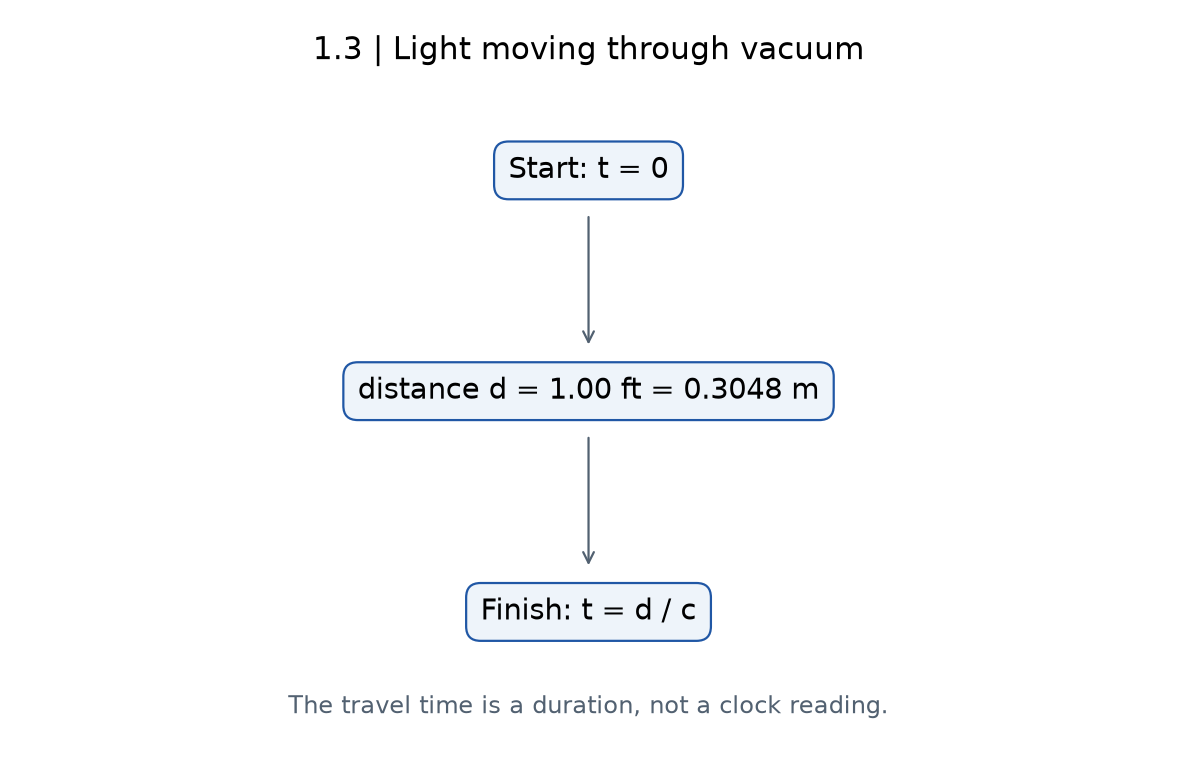
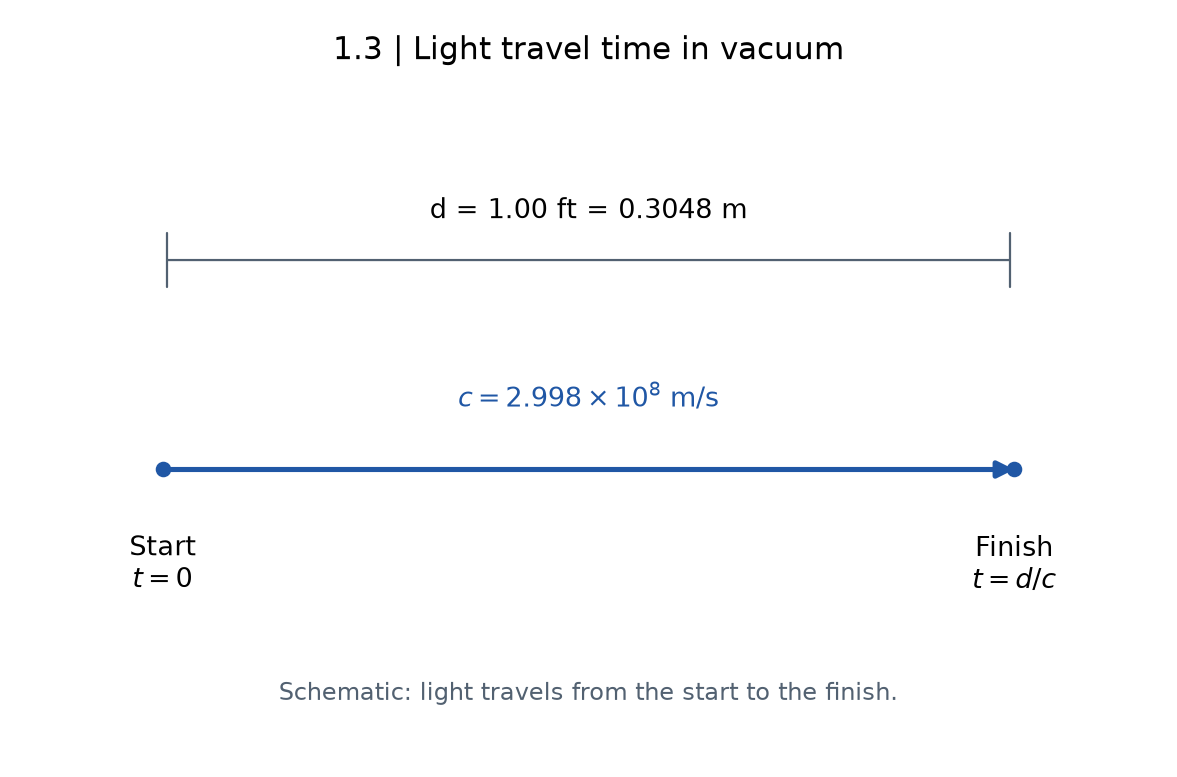
Refine and individually audit Week 01 solution drawings

diff --git a/fall/phy101/w1/index.html b/fall/phy101/w1/index.html
@@ -1149,6 +1149,7 @@ F&=\sqrt{(-12.0)^2+(14.8)^2}\ \mathrm N \\ &=19.1\ \mathrm N \\ s&=\sqrt{(4.00)^
 <p><strong>Source:</strong> Young & Freedman, <em>University Physics</em>, 15th ed., Chapter 1, Exercise 1.1. Givens retained; question restated and solution written for this course. Try on paper before revealing the route.</p>
 <details class="wex-more"><summary>Show the worked route <span lang="tr">/ Çözüm yolunu göster</span></summary><p><strong>Solution.</strong></p>
 <img src="../assets/week01-solutions/exercise-1-01.png" alt="Labelled solution drawing for Young and Freedman Exercise 1.1" width="100%">
+<p><a href="https://arifsolmaz.github.io/courses/fall/phy101/assets/week01-solutions/exercise-1-01.png">Open drawing at full size</a></p>
 <p><em>Drawing for the solution. Vector plots use equal coordinate scales; schematic models are identified in the drawing.</em></p>
 <p><strong>1. Read the drawing and predict.</strong> Draw a conversion chain: miles → feet → inches → centimetres → kilometres. A mile is longer than a kilometre, so (a) must exceed 1.</p>
 <p><strong>2–3. Choose the relation and rearrange symbolically.</strong> Multiply the length by ratios equal to one. Symbolically, $L_{\rm target}=L_{\rm source}\,k$, where $k$ is the product of the conversion ratios.</p>
@@ -1182,6 +1183,7 @@ L&=(1.00\times10^5\ \mathrm{cm})\frac{1\ \mathrm{ft}}{30.48\ \mathrm{cm}}\\
 <p><strong>Source:</strong> Young & Freedman, <em>University Physics</em>, 15th ed., Chapter 1, Exercise 1.2. Givens retained; question restated and solution written for this course. Try on paper before revealing the route.</p>
 <details class="wex-more"><summary>Show the worked route <span lang="tr">/ Çözüm yolunu göster</span></summary><p><strong>Solution.</strong></p>
 <img src="../assets/week01-solutions/exercise-1-02.png" alt="Labelled solution drawing for Young and Freedman Exercise 1.2" width="100%">
+<p><a href="https://arifsolmaz.github.io/courses/fall/phy101/assets/week01-solutions/exercise-1-02.png">Open drawing at full size</a></p>
 <p><em>Drawing for the solution. Vector plots use equal coordinate scales; schematic models are identified in the drawing.</em></p>
 <p><strong>1. Read the drawing and predict.</strong> Sketch a cube one inch on each edge: each of its three edges needs conversion. One cubic inch contains more than one cubic centimetre.</p>
 <p><strong>2–3. Choose the relation and rearrange symbolically.</strong> $V_{\rm in^3}=V_{\rm L}(1000\ \mathrm{cm^3/L})(1\ \mathrm{in}/2.54\ \mathrm{cm})^3$.</p>
@@ -1209,6 +1211,7 @@ V&=(473\ \mathrm{cm^3})\frac{1\ \mathrm{in^3}}{16.387064\ \mathrm{cm^3}}\\
 <p><strong>Source:</strong> Young & Freedman, <em>University Physics</em>, 15th ed., Chapter 1, Exercise 1.3. Givens retained; question restated and solution written for this course. Try on paper before revealing the route.</p>
 <details class="wex-more"><summary>Show the worked route <span lang="tr">/ Çözüm yolunu göster</span></summary><p><strong>Solution.</strong></p>
 <img src="../assets/week01-solutions/exercise-1-03.png" alt="Labelled solution drawing for Young and Freedman Exercise 1.3" width="100%">
+<p><a href="https://arifsolmaz.github.io/courses/fall/phy101/assets/week01-solutions/exercise-1-03.png">Open drawing at full size</a></p>
 <p><em>Drawing for the solution. Vector plots use equal coordinate scales; schematic models are identified in the drawing.</em></p>
 <p><strong>1. Read the drawing and predict.</strong> Draw a straight path of length d and mark a clock at each end. The interval is positive and tiny.</p>
 <p><strong>2–3. Choose the relation and rearrange symbolically.</strong> Uniform propagation gives $d=ct$, hence $t=d/c$. Use exact $c=299792458\ \mathrm{m/s}$ and $1\ \mathrm{ft}=0.3048\ \mathrm m$.</p>
@@ -1231,6 +1234,7 @@ t&=\frac{0.3048\ \mathrm m}{299792458\ \mathrm{m/s}}\\
 <p><strong>Source:</strong> Young & Freedman, <em>University Physics</em>, 15th ed., Chapter 1, Exercise 1.4. Givens retained; question restated and solution written for this course. Try on paper before revealing the route.</p>
 <details class="wex-more"><summary>Show the worked route <span lang="tr">/ Çözüm yolunu göster</span></summary><p><strong>Solution.</strong></p>
 <img src="../assets/week01-solutions/exercise-1-04.png" alt="Labelled solution drawing for Young and Freedman Exercise 1.4" width="100%">
+<p><a href="https://arifsolmaz.github.io/courses/fall/phy101/assets/week01-solutions/exercise-1-04.png">Open drawing at full size</a></p>
 <p><em>Drawing for the solution. Vector plots use equal coordinate scales; schematic models are identified in the drawing.</em></p>
 <p><strong>1. Read the drawing and predict.</strong> Draw a cube with 100 cm along each edge: one cubic metre contains a million cubic centimetres.</p>
 <p><strong>2–3. Choose the relation and rearrange symbolically.</strong> $\rho_{\rm SI}=\rho(10^{-3}\ \mathrm{kg/g})(10^2\ \mathrm{cm/m})^3$. The volume unit is in the denominator.</p>
@@ -1256,6 +1260,7 @@ t&=\frac{0.3048\ \mathrm m}{299792458\ \mathrm{m/s}}\\
 <p><strong>Source:</strong> Young & Freedman, <em>University Physics</em>, 15th ed., Chapter 1, Exercise 1.5. Givens retained; question restated and solution written for this course. Try on paper before revealing the route.</p>
 <details class="wex-more"><summary>Show the worked route <span lang="tr">/ Çözüm yolunu göster</span></summary><p><strong>Solution.</strong></p>
 <img src="../assets/week01-solutions/exercise-1-05.png" alt="Labelled solution drawing for Young and Freedman Exercise 1.5" width="100%">
+<p><a href="https://arifsolmaz.github.io/courses/fall/phy101/assets/week01-solutions/exercise-1-05.png">Open drawing at full size</a></p>
 <p><em>Drawing for the solution. Vector plots use equal coordinate scales; schematic models are identified in the drawing.</em></p>
 <p><strong>1. Read the drawing and predict.</strong> Write G = 10⁹. A year contains tens of millions of seconds, so expect tens of years.</p>
 <p><strong>2–3. Choose the relation and rearrange symbolically.</strong> $t_{\rm yr}=t_{\rm s}/(365\times24\times60\times60)$, with the denominator in seconds per year.</p>
@@ -1283,6 +1288,7 @@ t&=(1.00\times10^9\ \mathrm s)\frac{1\ \mathrm{yr}}{31536000\ \mathrm s}\\
 <p><strong>Source:</strong> Young & Freedman, <em>University Physics</em>, 15th ed., Chapter 1, Exercise 1.11. Givens retained; question restated and solution written for this course. Try on paper before revealing the route.</p>
 <details class="wex-more"><summary>Show the worked route <span lang="tr">/ Çözüm yolunu göster</span></summary><p><strong>Solution.</strong></p>
 <img src="../assets/week01-solutions/exercise-1-11.png" alt="Labelled solution drawing for Young and Freedman Exercise 1.11" width="100%">
+<p><a href="https://arifsolmaz.github.io/courses/fall/phy101/assets/week01-solutions/exercise-1-11.png">Open drawing at full size</a></p>
 <p><em>Drawing for the solution. Vector plots use equal coordinate scales; schematic models are identified in the drawing.</em></p>
 <p><strong>1. Read the drawing and predict.</strong> Sketch and label the rectangle. The ruler measurement is less finely resolved than the micrometer measurement.</p>
 <p><strong>2–3. Choose the relation and rearrange symbolically.</strong> $A=Lw$, $P=2(L+w)$; the two ratios and difference follow directly. The 2 in the perimeter is exact.</p>
@@ -1313,6 +1319,7 @@ P&=2(L+w)=35.96\ \mathrm{mm}\\
 <p><strong>Source:</strong> Young & Freedman, <em>University Physics</em>, 15th ed., Chapter 1, Exercise 1.12. Givens retained; question restated and solution written for this course. Try on paper before revealing the route.</p>
 <details class="wex-more"><summary>Show the worked route <span lang="tr">/ Çözüm yolunu göster</span></summary><p><strong>Solution.</strong></p>
 <img src="../assets/week01-solutions/exercise-1-12.png" alt="Labelled solution drawing for Young and Freedman Exercise 1.12" width="100%">
+<p><a href="https://arifsolmaz.github.io/courses/fall/phy101/assets/week01-solutions/exercise-1-12.png">Open drawing at full size</a></p>
 <p><em>Drawing for the solution. Vector plots use equal coordinate scales; schematic models are identified in the drawing.</em></p>
 <p><strong>1. Read the drawing and predict.</strong> Sketch a long narrow cylinder. Radius appears twice through the circular area; height appears once.</p>
 <p><strong>2–3. Choose the relation and rearrange symbolically.</strong> $V=\pi r^2h$. Convert $\mathrm{cm^3}$ to $\mathrm{mm^3}$ using $(10\ \mathrm{mm/cm})^3$.</p>
@@ -1341,6 +1348,7 @@ V&=49.26519936\ldots\ \mathrm{mm^3}\\
 <p><strong>Source:</strong> Young & Freedman, <em>University Physics</em>, 15th ed., Chapter 1, Exercise 1.13. Givens retained; question restated and solution written for this course. Try on paper before revealing the route.</p>
 <details class="wex-more"><summary>Show the worked route <span lang="tr">/ Çözüm yolunu göster</span></summary><p><strong>Solution.</strong></p>
 <img src="../assets/week01-solutions/exercise-1-13.png" alt="Labelled solution drawing for Young and Freedman Exercise 1.13" width="100%">
+<p><a href="https://arifsolmaz.github.io/courses/fall/phy101/assets/week01-solutions/exercise-1-13.png">Open drawing at full size</a></p>
 <p><em>Drawing for the solution. Vector plots use equal coordinate scales; schematic models are identified in the drawing.</em></p>
 <p><strong>1. Read the drawing and predict.</strong> Place approximate and reference durations on a number line. Decide which lies lower before interpreting the sign.</p>
 <p><strong>2–3. Choose the relation and rearrange symbolically.</strong> $\epsilon=100(t_{\rm approx}-t_{\rm ref})/t_{\rm ref}$; percent-error magnitude is $|\epsilon|$.</p>
@@ -1369,6 +1377,7 @@ t_{\rm approx}&=\pi\times10^7\ \mathrm s\\
 <p><strong>Source:</strong> Young & Freedman, <em>University Physics</em>, 15th ed., Chapter 1, Exercise 1.14. Givens retained; question restated and solution written for this course. Try on paper before revealing the route.</p>
 <details class="wex-more"><summary>Show the worked route <span lang="tr">/ Çözüm yolunu göster</span></summary><p><strong>Solution.</strong></p>
 <img src="../assets/week01-solutions/exercise-1-14.png" alt="Labelled solution drawing for Young and Freedman Exercise 1.14" width="100%">
+<p><a href="https://arifsolmaz.github.io/courses/fall/phy101/assets/week01-solutions/exercise-1-14.png">Open drawing at full size</a></p>
 <p><em>Drawing for the solution. Vector plots use equal coordinate scales; schematic models are identified in the drawing.</em></p>
 <p><strong>1. Read the drawing and predict.</strong> Compare the numerical values to π, not just the number of printed digits.</p>
 <p><strong>2–3. Choose the relation and rearrange symbolically.</strong> Compute each ratio without rounding first, then round to six significant figures. Compare with $\pi=3.14159265\ldots$.</p>
@@ -1391,6 +1400,7 @@ t_{\rm approx}&=\pi\times10^7\ \mathrm s\\
 <p><strong>Source:</strong> Young & Freedman, <em>University Physics</em>, 15th ed., Chapter 1, Exercise 1.24. Givens retained; question restated and solution written for this course. Try on paper before revealing the route.</p>
 <details class="wex-more"><summary>Show the worked route <span lang="tr">/ Çözüm yolunu göster</span></summary><p><strong>Solution.</strong></p>
 <img src="../assets/week01-solutions/exercise-1-24.png" alt="Labelled solution drawing for Young and Freedman Exercise 1.24" width="100%">
+<p><a href="https://arifsolmaz.github.io/courses/fall/phy101/assets/week01-solutions/exercise-1-24.png">Open drawing at full size</a></p>
 <p><em>Drawing for the solution. Vector plots use equal coordinate scales; schematic models are identified in the drawing.</em></p>
 <p><strong>1. Read the drawing and predict.</strong> Draw all four arrows. Their quadrants are IV, I, II and III respectively; their magnitudes are equal.</p>
 <p><strong>2–3. Choose the relation and rearrange symbolically.</strong> First find the reference angle $\alpha=\arctan(|A_y/A_x|)$. Use signs to choose $360^\circ-\alpha$, $\alpha$, $180^\circ-\alpha$ or $180^\circ+\alpha$.</p>
@@ -1415,6 +1425,7 @@ t_{\rm approx}&=\pi\times10^7\ \mathrm s\\
 <p><strong>Source:</strong> Young & Freedman, <em>University Physics</em>, 15th ed., Chapter 1, Exercise 1.26. Givens retained; question restated and solution written for this course. Try on paper before revealing the route.</p>
 <details class="wex-more"><summary>Show the worked route <span lang="tr">/ Çözüm yolunu göster</span></summary><p><strong>Solution.</strong></p>
 <img src="../assets/week01-solutions/exercise-1-26.png" alt="Labelled solution drawing for Young and Freedman Exercise 1.26" width="100%">
+<p><a href="https://arifsolmaz.github.io/courses/fall/phy101/assets/week01-solutions/exercise-1-26.png">Open drawing at full size</a></p>
 <p><em>Drawing for the solution. Vector plots use equal coordinate scales; schematic models are identified in the drawing.</em></p>
 <p><strong>1. Read the drawing and predict.</strong> Start at the downward axis and turn clockwise toward the left: quadrant III, so both components must be negative.</p>
 <p><strong>2–3. Choose the relation and rearrange symbolically.</strong> With $\alpha=34.0^\circ$, $A_x=-A\sin\alpha$ and $A_y=-A\cos\alpha$. Thus $A=-A_x/\sin\alpha$ and $A_y=A_x\cot\alpha$.</p>
@@ -1446,6 +1457,7 @@ A_y&=-A\cos34.0^\circ\\
 <p><strong>Source:</strong> Young & Freedman, <em>University Physics</em>, 15th ed., Chapter 1, Exercise 1.27. Givens retained; question restated and solution written for this course. Try on paper before revealing the route.</p>
 <details class="wex-more"><summary>Show the worked route <span lang="tr">/ Çözüm yolunu göster</span></summary><p><strong>Solution.</strong></p>
 <img src="../assets/week01-solutions/exercise-1-27.png" alt="Labelled solution drawing for Young and Freedman Exercise 1.27" width="100%">
+<p><a href="https://arifsolmaz.github.io/courses/fall/phy101/assets/week01-solutions/exercise-1-27.png">Open drawing at full size</a></p>
 <p><em>Drawing for the solution. Vector plots use equal coordinate scales; schematic models are identified in the drawing.</em></p>
 <p><strong>1. Read the drawing and predict.</strong> From upward, turn toward the left: quadrant II. Expect Ax negative, Ay positive.</p>
 <p><strong>2–3. Choose the relation and rearrange symbolically.</strong> $A_y=A\cos\beta$, $A_x=-A\sin\beta$, so $A=A_y/\cos\beta$ and $A_x=-A_y\tan\beta$.</p>
@@ -1478,6 +1490,7 @@ A_x&=-\frac{A_y}{\cos\beta}\sin\beta\\
 <p><strong>Source:</strong> Young & Freedman, <em>University Physics</em>, 15th ed., Chapter 1, Exercise 1.30. Givens retained; question restated and solution written for this course. Try on paper before revealing the route.</p>
 <details class="wex-more"><summary>Show the worked route <span lang="tr">/ Çözüm yolunu göster</span></summary><p><strong>Solution.</strong></p>
 <img src="../assets/week01-solutions/exercise-1-30.png" alt="Labelled solution drawing for Young and Freedman Exercise 1.30" width="100%">
+<p><a href="https://arifsolmaz.github.io/courses/fall/phy101/assets/week01-solutions/exercise-1-30.png">Open drawing at full size</a></p>
 <p><em>Drawing for the solution. Vector plots use equal coordinate scales; schematic models are identified in the drawing.</em></p>
 <p><strong>1. Read the drawing and predict.</strong> Sketch II, III and IV quadrants respectively. None of the answers can lie in quadrant I.</p>
 <p><strong>2–3. Choose the relation and rearrange symbolically.</strong> $A=\sqrt{A_x^2+A_y^2}$; determine $\theta$ from the ratio and the signs (equivalently atan2).</p>
@@ -1515,6 +1528,7 @@ A&=\sqrt{60.0625+7.29}\ \mathrm{km}\\
 <p><strong>Source:</strong> Young & Freedman, <em>University Physics</em>, 15th ed., Chapter 1, Exercise 1.31. Givens retained; question restated and solution written for this course. Try on paper before revealing the route.</p>
 <details class="wex-more"><summary>Show the worked route <span lang="tr">/ Çözüm yolunu göster</span></summary><p><strong>Solution.</strong></p>
 <img src="../assets/week01-solutions/exercise-1-31.png" alt="Labelled solution drawing for Young and Freedman Exercise 1.31" width="100%">
+<p><a href="https://arifsolmaz.github.io/courses/fall/phy101/assets/week01-solutions/exercise-1-31.png">Open drawing at full size</a></p>
 <p><em>Drawing for the solution. Vector plots use equal coordinate scales; schematic models are identified in the drawing.</em></p>
 <p><strong>1. Read the drawing and predict.</strong> Draw three arrows head to tail. The north and south legs partly cancel; the endpoint is northwest of the start.</p>
 <p><strong>2–3. Choose the relation and rearrange symbolically.</strong> $R_x=-d_W$, $R_y=d_N-d_S$; $R=\sqrt{R_x^2+R_y^2}$ and $\alpha=\arctan(R_y/|R_x|)$ north of west.</p>
@@ -1547,6 +1561,7 @@ R&=\sqrt{R_x^2+R_y^2}\\
 <p><strong>Source:</strong> Young & Freedman, <em>University Physics</em>, 15th ed., Chapter 1, Exercise 1.32. Givens retained; question restated and solution written for this course. Try on paper before revealing the route.</p>
 <details class="wex-more"><summary>Show the worked route <span lang="tr">/ Çözüm yolunu göster</span></summary><p><strong>Solution.</strong></p>
 <img src="../assets/week01-solutions/exercise-1-32.png" alt="Labelled solution drawing for Young and Freedman Exercise 1.32" width="100%">
+<p><a href="https://arifsolmaz.github.io/courses/fall/phy101/assets/week01-solutions/exercise-1-32.png">Open drawing at full size</a></p>
 <p><em>Drawing for the solution. Vector plots use equal coordinate scales; schematic models are identified in the drawing.</em></p>
 <p><strong>1. Read the drawing and predict.</strong> Draw A northwest and the required sum straight down. B must point southeast to cancel A’s westward part and reverse the vertical part.</p>
 <p><strong>2–3. Choose the relation and rearrange symbolically.</strong> $\vec B=\vec R-\vec A$, with $\vec R=(0,-12.0)\ \mathrm m$. Thus $B_x=-A\cos\theta$, $B_y=-12.0\ \mathrm m-A\sin\theta$.</p>
@@ -1581,6 +1596,7 @@ B&=\sqrt{B_x^2+B_y^2}=19.0088931274\ldots\ \mathrm m\\
 <p><strong>Source:</strong> Young & Freedman, <em>University Physics</em>, 15th ed., Chapter 1, Exercise 1.33. Givens retained; question restated and solution written for this course. Try on paper before revealing the route.</p>
 <details class="wex-more"><summary>Show the worked route <span lang="tr">/ Çözüm yolunu göster</span></summary><p><strong>Solution.</strong></p>
 <img src="../assets/week01-solutions/exercise-1-33.png" alt="Labelled solution drawing for Young and Freedman Exercise 1.33" width="100%">
+<p><a href="https://arifsolmaz.github.io/courses/fall/phy101/assets/week01-solutions/exercise-1-33.png">Open drawing at full size</a></p>
 <p><em>Drawing for the solution. Vector plots use equal coordinate scales; schematic models are identified in the drawing.</em></p>
 <p><strong>1. Read the drawing and predict.</strong> Draw A up-right and B down-right. Their sum points mostly right; subtracting B instead reinforces the upward components.</p>
 <p><strong>2–3. Choose the relation and rearrange symbolically.</strong> Compute each component using sine and cosine, then add or subtract components before taking magnitudes.</p>
@@ -1625,6 +1641,7 @@ E&=D\approx\boxed{4.10\ \mathrm{cm}},\\
 <p><strong>Source:</strong> Young & Freedman, <em>University Physics</em>, 15th ed., Chapter 1, Exercise 1.36. Givens retained; question restated and solution written for this course. Try on paper before revealing the route.</p>
 <details class="wex-more"><summary>Show the worked route <span lang="tr">/ Çözüm yolunu göster</span></summary><p><strong>Solution.</strong></p>
 <img src="../assets/week01-solutions/exercise-1-36.png" alt="Labelled solution drawing for Young and Freedman Exercise 1.36" width="100%">
+<p><a href="https://arifsolmaz.github.io/courses/fall/phy101/assets/week01-solutions/exercise-1-36.png">Open drawing at full size</a></p>
 <p><em>Drawing for the solution. Vector plots use equal coordinate scales; schematic models are identified in the drawing.</em></p>
 <p><strong>1. Read the drawing and predict.</strong> A points northeast and B southeast. With tails together, the arrow from B’s head to A’s head represents A−B.</p>
 <p><strong>2–3. Choose the relation and rearrange symbolically.</strong> $A=\sqrt{A_x^2+A_y^2}$, $B=\sqrt{B_x^2+B_y^2}$; subtract matching components. These abstract vectors have no specified physical units.</p>
@@ -1657,6 +1674,7 @@ D&=\sqrt{(-1.00)^2+9.00^2}=\sqrt{82}\approx\boxed{9.06},\\
 <p><strong>Source:</strong> Young & Freedman, <em>University Physics</em>, 15th ed., Chapter 1, Exercise 1.39. Givens retained; question restated and solution written for this course. Try on paper before revealing the route.</p>
 <details class="wex-more"><summary>Show the worked route <span lang="tr">/ Çözüm yolunu göster</span></summary><p><strong>Solution.</strong></p>
 <img src="../assets/week01-solutions/exercise-1-39.png" alt="Labelled solution drawing for Young and Freedman Exercise 1.39" width="100%">
+<p><a href="https://arifsolmaz.github.io/courses/fall/phy101/assets/week01-solutions/exercise-1-39.png">Open drawing at full size</a></p>
 <p><em>Drawing for the solution. Vector plots use equal coordinate scales; schematic models are identified in the drawing.</em></p>
 <p><strong>1. Read the drawing and predict.</strong> Draw three perpendicular axes. The difference changes x negatively and z positively; magnitude is never the difference of the two magnitudes in general.</p>
 <p><strong>2–3. Choose the relation and rearrange symbolically.</strong> $|\vec A|=\sqrt{A_x^2+A_y^2+A_z^2}$ and similarly for B; $\vec D=(A_x-B_x,A_y-B_y,A_z-B_z)$.</p>
@@ -1689,6 +1707,7 @@ D&=\sqrt{(-5.00)^2+2.00^2+7.00^2}\\
 <p><strong>Source:</strong> Young & Freedman, <em>University Physics</em>, 15th ed., Chapter 1, Exercise 1.40. Givens retained; question restated and solution written for this course. Try on paper before revealing the route.</p>
 <details class="wex-more"><summary>Show the worked route <span lang="tr">/ Çözüm yolunu göster</span></summary><p><strong>Solution.</strong></p>
 <img src="../assets/week01-solutions/exercise-1-40.png" alt="Labelled solution drawing for Young and Freedman Exercise 1.40" width="100%">
+<p><a href="https://arifsolmaz.github.io/courses/fall/phy101/assets/week01-solutions/exercise-1-40.png">Open drawing at full size</a></p>
 <p><em>Drawing for the solution. Vector plots use equal coordinate scales; schematic models are identified in the drawing.</em></p>
 <p><strong>1. Read the drawing and predict.</strong> The x projections reinforce in the dot product while the y projections oppose; expect a small positive sum.</p>
 <p><strong>2–3. Choose the relation and rearrange symbolically.</strong> $\vec A\cdot\vec B=A_xB_x+A_yB_y$, then $\phi=\arccos[(\vec A\cdot\vec B)/(AB)]$ for nonzero vectors.</p>
@@ -1720,6 +1739,7 @@ D&=\sqrt{(-5.00)^2+2.00^2+7.00^2}\\
 <p><strong>Source:</strong> Young & Freedman, <em>University Physics</em>, 15th ed., Chapter 1, Exercise 1.42. Givens retained; question restated and solution written for this course. Try on paper before revealing the route.</p>
 <details class="wex-more"><summary>Show the worked route <span lang="tr">/ Çözüm yolunu göster</span></summary><p><strong>Solution.</strong></p>
 <img src="../assets/week01-solutions/exercise-1-42.png" alt="Labelled solution drawing for Young and Freedman Exercise 1.42" width="100%">
+<p><a href="https://arifsolmaz.github.io/courses/fall/phy101/assets/week01-solutions/exercise-1-42.png">Open drawing at full size</a></p>
 <p><em>Drawing for the solution. Vector plots use equal coordinate scales; schematic models are identified in the drawing.</em></p>
 <p><strong>1. Read the drawing and predict.</strong> Looking from +z, turning from A toward B through the smaller angle is clockwise, so predict −z.</p>
 <p><strong>2–3. Choose the relation and rearrange symbolically.</strong> Only $C_z=A_xB_y-A_yB_x$ survives because both input z-components are zero.</p>
@@ -1746,6 +1766,7 @@ C_z&=A_xB_y-A_yB_x\\
 <p><strong>Source:</strong> Young & Freedman, <em>University Physics</em>, 15th ed., Chapter 1, Exercise 1.43. Givens retained; question restated and solution written for this course. Try on paper before revealing the route.</p>
 <details class="wex-more"><summary>Show the worked route <span lang="tr">/ Çözüm yolunu göster</span></summary><p><strong>Solution.</strong></p>
 <img src="../assets/week01-solutions/exercise-1-43.png" alt="Labelled solution drawing for Young and Freedman Exercise 1.43" width="100%">
+<p><a href="https://arifsolmaz.github.io/courses/fall/phy101/assets/week01-solutions/exercise-1-43.png">Open drawing at full size</a></p>
 <p><em>Drawing for the solution. Vector plots use equal coordinate scales; schematic models are identified in the drawing.</em></p>
 <p><strong>1. Read the drawing and predict.</strong> Sketch each pair tail to tail. Pair (a) is almost opposite; (b) points broadly together; (c) may be perpendicular.</p>
 <p><strong>2–3. Choose the relation and rearrange symbolically.</strong> For every pair, $\cos\phi=(A_xB_x+A_yB_y)/(AB)$, with $0\le\phi\le180^\circ$.</p>
@@ -1785,6 +1806,7 @@ A&=\sqrt{20},\qquad B=\sqrt{245},\\
 <p><strong>Source:</strong> Young & Freedman, <em>University Physics</em>, 15th ed., Chapter 1, Exercise 1.44. Givens retained; question restated and solution written for this course. Try on paper before revealing the route.</p>
 <details class="wex-more"><summary>Show the worked route <span lang="tr">/ Çözüm yolunu göster</span></summary><p><strong>Solution.</strong></p>
 <img src="../assets/week01-solutions/exercise-1-44.png" alt="Labelled solution drawing for Young and Freedman Exercise 1.44" width="100%">
+<p><a href="https://arifsolmaz.github.io/courses/fall/phy101/assets/week01-solutions/exercise-1-44.png">Open drawing at full size</a></p>
 <p><em>Drawing for the solution. Vector plots use equal coordinate scales; schematic models are identified in the drawing.</em></p>
 <p><strong>1. Read the drawing and predict.</strong> The smaller angle is 120°, not 60°. A → B is clockwise viewed from +z; B → A is counter-clockwise.</p>
 <p><strong>2–3. Choose the relation and rearrange symbolically.</strong> $|\vec A\times\vec B|=AB\sin120^\circ$; use the right-hand rule for the vector sign.</p>

diff --git a/fall/phy101/tools/draw_week01_solutions.py b/fall/phy101/tools/draw_week01_solutions.py
@@ -22,8 +22,8 @@ def axes(ax,points,unit=''):
     ax.set_aspect('equal',adjustable='box');ax.axhline(0,color=GRAY,lw=.7);ax.axvline(0,color=GRAY,lw=.7)
     ax.grid(alpha=.15);ax.set_xlabel('x'+(f' ({unit})' if unit else ''));ax.set_ylabel('y'+(f' ({unit})' if unit else ''))
 def arrow(ax,start,end,label,color=BLUE,offset=(7,7),style='-'):
-    ax.annotate('',xy=end,xytext=start,arrowprops={'arrowstyle':'-|>','color':color,'lw':2.3,'linestyle':style,'mutation_scale':15})
-    if label:ax.annotate(label,xy=(np.array(start)+end)/2,xytext=offset,textcoords='offset points',color=color,fontsize=12)
+    ax.annotate('',xy=end,xytext=start,arrowprops={'arrowstyle':'-|>','color':color,'lw':2.3,'linestyle':style,'mutation_scale':15,'shrinkA':0,'shrinkB':0})
+    if label:ax.annotate(label,xy=(np.array(start)+end)/2,xytext=offset,textcoords='offset points',color=color,fontsize=12,bbox=dict(facecolor='white',edgecolor='none',alpha=.9,pad=1.5))
 def vector(ax,v,label='A',color=BLUE,offset=(8,8),components=False):
     arrow(ax,(0,0),v,label,color,offset)
     if components:ax.plot([0,v[0],v[0]],[0,0,v[1]],'--',color=GRAY,alpha=.65)
@@ -32,28 +32,37 @@ def flow(n,title,steps,footer):
     ys=np.linspace(.88,.2,len(steps))
     for j,(y,txt) in enumerate(zip(ys,steps)):
         ax.text(.5,y,txt,ha='center',va='center',bbox=dict(boxstyle='round,pad=.5',facecolor='#eef4fa',edgecolor=BLUE),fontsize=13)
-        if j and n != 14:ax.annotate('',xy=(.5,y+.065),xytext=(.5,ys[j-1]-.065),arrowprops=dict(arrowstyle='->',color=GRAY))
+        if j and n not in (13,14):ax.annotate('',xy=(.5,y+.065),xytext=(.5,ys[j-1]-.065),arrowprops=dict(arrowstyle='->',color=GRAY))
     ax.text(.5,.035,footer,ha='center',va='bottom',fontsize=11,color=GRAY);save(fig,n)
 flow(1,'1.1 | Follow the units',[r'mile $\rightarrow$ foot $\rightarrow$ inch',r'inch $\rightarrow$ centimetre $\rightarrow$ kilometre',r'For km $\rightarrow$ ft: reverse the relevant ratios'],'Every conversion ratio equals one.')
 for n,title,edge,note in [(2,'1.2 | Convert all three edges','1 in = 2.54 cm',r'$1\ \mathrm{in^3}=(2.54)^3\ \mathrm{cm^3}$'),(4,'1.4 | The volume unit is in the denominator','1 m = 100 cm',r'$1\ \mathrm{m^3}=10^6\ \mathrm{cm^3}$')]:
     fig,axs=panels([title]);ax=axs[0];ax.set_axis_off();ax.set_xlim(-.5,4);ax.set_ylim(-.7,3.4);ax.set_aspect('equal')
-    square=np.array([[0,0],[2,0],[2,2],[0,2],[0,0]]);off=np.array([.8,.65]);ax.plot(*square.T,color=BLUE);ax.plot(*(square+off).T,color=BLUE)
-    for p in square[:4]:ax.plot([p[0],p[0]+off[0]],[p[1],p[1]+off[1]],color=BLUE)
-    ax.text(1,-.28,edge,ha='center');ax.text(3.4,1.3,'same\nedge',ha='center',color=GRAY);ax.text(1.4,3.05,note,ha='center',fontsize=15);save(fig,n)
-flow(3,'1.3 | Light moving through vacuum',['Start: t = 0','distance d = 1.00 ft = 0.3048 m','Finish: t = d / c'],'The travel time is a duration, not a clock reading.')
+    square=np.array([[0,0],[2,0],[2,2],[0,2],[0,0]]);off=np.array([.8,.65]);ax.plot(*square.T,color=BLUE)
+    back=square+off
+    for j in range(4):
+        ax.plot(*back[j:j+2].T,color=BLUE,linestyle='--' if j in (0,3) else '-')
+    for j,p in enumerate(square[:4]):ax.plot([p[0],p[0]+off[0]],[p[1],p[1]+off[1]],color=BLUE,linestyle='--' if j==0 else '-')
+    ax.text(1,-.28,edge,ha='center');ax.text(3.4,1.3,'All edges\nare equal',ha='center',color=GRAY);ax.text(1.4,3.05,note,ha='center',fontsize=15);save(fig,n)
+fig,axs=panels(['1.3 | Light travel time in vacuum']);ax=axs[0];ax.axis('off');ax.set_xlim(-.6,4.6);ax.set_ylim(-1.3,1.8)
+ax.plot([0,4],[0,0],'o',color=BLUE);arrow(ax,(0,0),(4,0),'',BLUE)
+ax.text(0,-.3,'Start\n$t=0$',ha='center',va='top');ax.text(4,-.3,'Finish\n$t=d/c$',ha='center',va='top')
+ax.text(2,.3,r'$c=2.998\times10^8\ \mathrm{m/s}$',ha='center',color=BLUE)
+ax.annotate('',xy=(4,1),xytext=(0,1),arrowprops=dict(arrowstyle='|-|',color=GRAY))
+ax.text(2,1.2,'d = 1.00 ft = 0.3048 m',ha='center');ax.text(2,-1.1,'Schematic: light travels from the start to the finish.',ha='center',fontsize=11,color=GRAY);save(fig,3)
 flow(5,'1.5 | Seconds to years',['1.00 Gs = 1.00 × 10⁹ s','seconds ÷ 60 → minutes ÷ 60 → hours','hours ÷ 24 → days ÷ 365 → years'],'This exercise uses a 365-day year.')
 fig,axs=panels(['1.11 | Two measured sides']);ax=axs[0];ax.add_patch(Rectangle((0,0),12,5.98,fc='#eef4fa',ec=BLUE,lw=2));ax.text(6,-1,'L = 12 mm',ha='center');ax.text(6,7,'Area = Lw; perimeter = 2L + 2w',ha='center');ax.text(13,3,'w =\n5.98 mm',va='center');ax.set_xlim(-1,16);ax.set_ylim(-2,8);ax.set_aspect('equal');ax.axis('off');save(fig,11)
 fig,axs=panels(['1.12 | A wire modelled as a cylinder']);ax=axs[0];ax.set_axis_off();ax.set_xlim(-2,7);ax.set_ylim(-2,2.8)
 ax.add_patch(Rectangle((0,-.75),5,1.5,fc='#eef4fa',ec=BLUE));ax.add_patch(Ellipse((0,0),.8,1.5,fc='#dce8f7',ec=BLUE));ax.add_patch(Ellipse((5,0),.8,1.5,fc='white',ec=BLUE));arrow(ax,(0,0),(0,.75),'r',ORANGE,(8,0));ax.text(2.5,-1.3,'h = 12.1 cm',ha='center');ax.text(2.5,1.65,'r = 0.036 cm;  V = πr²h',ha='center');ax.text(2.5,-1.9,'Schematic: the real wire is much thinner.',ha='center',fontsize=11,color=GRAY);save(fig,12)
 flow(13,'1.13 | Compare with the reference year',[r'reference: $365.24\times24\times3600$ s',r'approximation: $\pi\times10^7$ s',r'error = approximation − reference'],'Percent error = error ÷ reference × 100%.')
-flow(14,'1.14 | Compare after rounding to six significant figures',['π = 3.141592653… → 3.14159','22 / 7 = 3.142857142… → 3.14286','355 / 113 = 3.141592920… → 3.14159'],'Only the second rational approximation agrees at six significant figures.')
+flow(14,'1.14 | Round to six significant figures',['π = 3.141592653… → 3.14159','22 / 7 = 3.142857142… → 3.14286','355 / 113 = 3.141592920… → 3.14159'],'355/113 agrees with π at six significant figures.')
 fig,axs=panels(['1.24 | Four vectors, four quadrants']);ax=axs[0];pts=[(2,-1),(2,1),(-2,1),(-2,-1)];axes(ax,pts,'m')
 for v,l in zip(pts,['(a) (2, −1)','(b) (2, 1)','(c) (−2, 1)','(d) (−2, −1)']):
  vector(ax,v,'',components=True)
  ax.annotate(l,xy=v,xytext=(0,12 if v[1]>0 else -22),textcoords='offset points',ha='center',color=BLUE)
 save(fig,24)
 for n,v,start,end,lab in [(26,(-16,-16/np.tan(np.deg2rad(34))),236,270,'34° from −y, clockwise'),(27,(-9.6*np.tan(np.deg2rad(32)),9.6),90,122,'32° from +y, counter-clockwise')]:
- fig,axs=panels([f'1.{n} | {lab}']);ax=axs[0];axes(ax,[v],'m');vector(ax,v,'A',components=True);r=np.linalg.norm(v)*.26;ax.add_patch(Arc((0,0),2*r,2*r,theta1=start,theta2=end,color=ORANGE,lw=2));ax.text(.04,.96,f'x < 0; y {"<" if n==26 else ">"} 0',transform=ax.transAxes,va='top',fontsize=11);save(fig,n)
+ fig,axs=panels([f'1.{n} | {lab}']);ax=axs[0];axes(ax,[v],'m');vector(ax,v,'A',offset=(-24,0) if n==26 else (8,8),components=True);r=np.linalg.norm(v)*.26;ax.add_patch(Arc((0,0),2*r,2*r,theta1=start,theta2=end,color=ORANGE,lw=2));mid=np.deg2rad((start+end)/2);ax.text(1.5*r*np.cos(mid),1.5*r*np.sin(mid),f'{end-start}°',ha='center',va='center',color=ORANGE,bbox=dict(facecolor='white',edgecolor='none',pad=1))
+ ax.text(.04,.96,f'x < 0; y {"<" if n==26 else ">"} 0',transform=ax.transAxes,va='top',fontsize=11);save(fig,n)
 fig,axs=panels(['1.30(a) | Quadrant II','1.30(b) | Quadrant III','1.30(c) | Quadrant IV'])
 for ax,v,u in zip(axs,[(-8.6,5.2),(-9.7,-2.45),(7.75,-2.7)],['cm','m','km']):axes(ax,[v],u);vector(ax,v,'A',components=True)
 save(fig,30)
@@ -62,24 +71,34 @@ for a,b in zip(pts[:-1],pts[1:]):arrow(ax,a,b,'',BLUE)
 ax.text(.18,1.6,'3.25 km N',rotation=90,va='center',color=BLUE);ax.text(-2.45,2.5,'1.50 km S',rotation=90,va='center',color=BLUE);ax.text(-1.1,3.45,'2.20 km W',ha='center',color=BLUE)
 vector(ax,pts[-1],'R',GREEN,(-15,-20));ax.plot(0,0,'o',color=GRAY);save(fig,31)
 A=np.array([8*np.cos(np.deg2rad(127)),8*np.sin(np.deg2rad(127))]);R=np.array([0,-12]);B=R-A
-fig,axs=panels(['1.32 | A + B must reach the given endpoint']);ax=axs[0];axes(ax,[A,R,B],'m');vector(ax,A,'A');arrow(ax,A,R,'B',ORANGE,(-20,0));vector(ax,R,'R',GREEN,(7,0));vector(ax,B,'B',ORANGE,(8,0));save(fig,32)
+fig,axs=panels(['1.32 | A + B must reach the given endpoint']);ax=axs[0];axes(ax,[A,R,B],'m');vector(ax,A,'A');arrow(ax,A,R,'B',ORANGE,(-20,0));vector(ax,R,'',GREEN);ax.text(.7,-11,'R',color=GREEN);vector(ax,B,'B',ORANGE,(8,0));save(fig,32)
 A=np.array([1.4,2.8*np.sin(np.pi/3)]);B=np.array([.95,-1.9*np.sin(np.pi/3)])
 fig,axs=panels(['1.33(a) | A + B','1.33(b) | A − B = A + (−B)','1.33(c) | B − A = B + (−A)'])
-for ax,u,v,lu,lv in zip(axs,[A,A,B],[B,-B,-A],['A','A','B'],['B','−B','−A']):axes(ax,[u,u+v],'cm');vector(ax,u,lu);arrow(ax,u,u+v,lv,ORANGE);vector(ax,u+v,'result',GREEN,(-55,10))
+for ax,u,v,lu,lv in zip(axs,[A,A,B],[B,-B,-A],['A','A','B'],['B','−B','−A']):axes(ax,[u,u+v],'cm');vector(ax,u,lu,offset=(8,8) if lu=='B' else (-22,8));arrow(ax,u,u+v,lv,ORANGE,(18,0));vector(ax,u+v,'R',GREEN,(0,-20) if lv=='B' else (-20,-8))
 save(fig,33)
 for n in [36,40,42]:
- A=np.array([4.,7.]);B=np.array([5.,-2.]);fig,axs=panels([f'1.{n} | Vectors with a common origin']);ax=axs[0];axes(ax,[A,B,A-B]);vector(ax,A,'A');vector(ax,B,'B',ORANGE)
+ A=np.array([4.,7.]);B=np.array([5.,-2.]);fig,axs=panels([f'1.{n} | Vectors with a common origin']);ax=axs[0];axes(ax,[A,B,A-B] if n==36 else [A,B]);vector(ax,A,'A',offset=(20,-4) if n==36 else (-22,8));vector(ax,B,'B',ORANGE)
  if n==36:arrow(ax,B,A,'A − B',GREEN,(8,0));vector(ax,A-B,'A − B',GREEN,(8,0))
  else:
   a=np.degrees(np.arctan2(A[1],A[0]));b=np.degrees(np.arctan2(B[1],B[0]));ax.add_patch(Arc((0,0),4,4,theta1=b,theta2=a,color=GREEN,lw=2));ax.text(2.1,1.3,'φ',color=GREEN,fontsize=16)
-  if n==42:ax.text(.04,.96,'A → B: clockwise\nA × B: into page (−z)',transform=ax.transAxes,va='top',fontsize=11)
+  if n==42:ax.text(.04,.96,'A → B: clockwise\nA × B: into page (−z)',transform=ax.transAxes,va='top',fontsize=11,bbox=dict(facecolor='white',edgecolor='none',alpha=.95,pad=3))
  save(fig,n)
-fig=plt.figure(figsize=(7,6),layout='constrained');ax=fig.add_subplot(projection='3d');ax.set_title('1.39 | Three-dimensional vectors (perspective view)')
-for v,l,c in [((-2,3,4),'A',BLUE),((3,1,-3),'B',ORANGE),((-5,2,7),'A − B',GREEN)]:ax.quiver(0,0,0,*v,color=c,arrow_length_ratio=.1,linewidth=2);ax.text(*v,l,color=c)
-ax.set_xlim(-6,4);ax.set_ylim(-4,6);ax.set_zlim(-3,7);ax.set_box_aspect((1,1,1));ax.set_xlabel('x');ax.set_ylabel('y');ax.set_zlabel('z');save(fig,39)
+fig=plt.figure(figsize=(7,6),layout='constrained');ax=fig.add_subplot(projection='3d');ax.set_title('1.39 | Three-dimensional vectors\nPerspective view',pad=15)
+for v,l,c in [((-2,3,4),'A',BLUE),((3,1,-3),'B',ORANGE),((-5,2,7),'A − B',GREEN)]:ax.quiver(0,0,0,*v,color=c,arrow_length_ratio=.1,linewidth=2);ax.text(*(np.array(v)+[.15,.1,.25]),l,color=c,bbox=dict(facecolor='white',edgecolor='none',alpha=.85,pad=1))
+ax.view_init(elev=24,azim=-35)
+ax.scatter([0],[0],[0],color=GRAY,s=20);ax.text(-2,-1,-.8,'O (0, 0, 0)',fontsize=10,color=GRAY,bbox=dict(facecolor='white',edgecolor='none',alpha=.9,pad=1))
+for end in [(4,0,0),(0,6,0),(0,0,8)]:ax.plot([0,end[0]],[0,end[1]],[0,end[2]],color=GRAY,lw=.8,linestyle='--')
+ax.set_xlim(-6,6);ax.set_ylim(-5,7);ax.set_zlim(-4,8);ax.set_box_aspect((1,1,1));ax.set_xlabel('x');ax.set_ylabel('y');ax.set_zlabel('z');save(fig,39)
 fig,axs=panels(['1.43(a) | Expect an obtuse angle','1.43(b) | Expect an acute angle','1.43(c) | Test for perpendicular vectors'])
-for ax,A,B in zip(axs,[(-2,6),(3,5),(-4,2)],[(2,-3),(10,6),(7,14)]):axes(ax,[A,B]);vector(ax,A,'A');vector(ax,B,'B',ORANGE)
+for ax,A,B in zip(axs,[(-2,6),(3,5),(-4,2)],[(2,-3),(10,6),(7,14)]):
+ axes(ax,[A,B]);vector(ax,A,'A',offset=(0,18) if A==(-4,2) else (-22,8));vector(ax,B,'B',ORANGE,offset=(8,-14))
+ aa=np.arctan2(A[1],A[0]);bb=np.arctan2(B[1],B[0]);delta=(aa-bb+np.pi)%(2*np.pi)-np.pi;r=min(np.linalg.norm(A),np.linalg.norm(B))*.32
+ if abs(np.dot(A,B))<1e-10:
+  u=np.array(A)/np.linalg.norm(A)*r;v=np.array(B)/np.linalg.norm(B)*r;ax.plot(*np.array([u,u+v,v]).T,color=GREEN,lw=1.5)
+ else:
+  start=min(bb,bb+delta);end=max(bb,bb+delta);ax.add_patch(Arc((0,0),2*r,2*r,theta1=np.degrees(start),theta2=np.degrees(end),color=GREEN,lw=1.5))
+  mid=(start+end)/2;ax.text(1.5*r*np.cos(mid),1.5*r*np.sin(mid),'φ',color=GREEN,ha='center',va='center')
 save(fig,43)
 A=np.array([1.4,2.8*np.sin(np.pi/3)]);B=np.array([.95,-1.9*np.sin(np.pi/3)])
-fig,axs=panels(['1.44 | The parallelogram and its normal']);ax=axs[0];axes(ax,[A,B,A+B],'cm');ax.add_patch(Polygon([(0,0),A,A+B,B],fc='#e5f2eb',ec=GREEN,alpha=.7));vector(ax,A,'A');vector(ax,B,'B',ORANGE);ax.add_patch(Arc((0,0),1.3,1.3,theta1=-60,theta2=60,color=GREEN,lw=2));ax.text(.72,0,'120°',color=GREEN);ax.text(.04,.97,'A × B: into page (−z)\nB × A: out of page (+z)',transform=ax.transAxes,va='top',fontsize=11);save(fig,44)
+fig,axs=panels(['1.44 | The parallelogram and its normal']);ax=axs[0];axes(ax,[A,B,A+B],'cm');ax.add_patch(Polygon([(0,0),A,A+B,B],fc='#e5f2eb',ec=GREEN,alpha=.7));vector(ax,A,'A',offset=(-22,8));vector(ax,B,'B',ORANGE);ax.add_patch(Arc((0,0),1.3,1.3,theta1=-60,theta2=60,color=GREEN,lw=2));ax.text(.72,0,'120°',color=GREEN);ax.text(.04,.97,'A × B: into page (−z)\nB × A: out of page (+z)',transform=ax.transAxes,va='top',fontsize=11,bbox=dict(facecolor='white',edgecolor='none',alpha=.95,pad=3));save(fig,44)
 print('Created',len(list(OUT.glob('*.png'))),'drawings')

diff --git a/fall/phy101/WEEK01_REVIEW.md b/fall/phy101/WEEK01_REVIEW.md
@@ -71,3 +71,35 @@ Visual repairs include complete visible problem statements before disclosure, al
 - `python tools/verify_site.py`: 398 checks across 13 pages, including reproducible generation.
 
 These checks support confidence in the implemented mathematical behavior; they do not claim proof against every browser or a live Google Colab service failure. The notebook was executed in a fresh local Jupyter kernel with widget callbacks exercised, rather than through a signed-in Colab session.
+
+
+## Illustrated solution review — 21 September 2026
+
+Reviewed every new drawing individually at its rendered resolution, checked its question/solution pairing, and checked all 22 image bounds at desktop and 390 px phone width. Original diagrams are generated by `tools/draw_week01_solutions.py`; they are not textbook figure scans. Full-size links support inspecting small labels on phones. Two-dimensional vector axes use equal scales. The wire and light-travel diagrams are explicitly schematic; the 3D view is explicitly perspective.
+
+| Exercise | Individual visual and scientific checks |
+|---|---|
+| 1.1 | Conversion sequence, direction of ratios, title and box spacing |
+| 1.2 | Three-dimensional cube, dashed hidden edges, cubed conversion |
+| 1.3 | Start/finish, light direction, distance dimension and travel time |
+| 1.4 | Cube edges and cubic metres/cubic centimetres relation |
+| 1.5 | Giga prefix, successive time conversions, 365-day assumption |
+| 1.11 | 12:5.98 side ratio, area/perimeter expressions and labels |
+| 1.12 | Radius rather than diameter, axial length, schematic warning |
+| 1.13 | Reference and approximation separated, signed error definition |
+| 1.14 | Six-significant-figure values, independent comparison rows |
+| 1.24 | Four component pairs, quadrants, endpoint labels and units |
+| 1.26 | Negative components, 34° clockwise from negative y, angle arc |
+| 1.27 | Negative x/positive y, 32° counter-clockwise from positive y |
+| 1.30 | All three component pairs, distinct units, quadrant titles |
+| 1.31 | N/W/S route, head-to-tail connections, resultant endpoint |
+| 1.32 | Required downward sum, identical translated B, corrected component |
+| 1.33 | All three constructions, reversed vectors, resultant directions |
+| 1.36 | Difference from B head to A head and its copy at the origin |
+| 1.39 | 3D components, common origin, perspective and equal axis spans |
+| 1.40 | Acute included angle and common origin |
+| 1.42 | Clockwise A-to-B rotation, negative-z cross-product direction |
+| 1.43 | Obtuse/acute arcs and geometrically perpendicular third pair |
+| 1.44 | Parallelogram edges, 120° included angle, opposite normals |
+
+Removed arrow endpoint padding, moved labels away from shafts, separated dense titles, clarified the 3D origin, and replaced the light-travel flowchart with a physical schematic. Browser checks found no missing drawings, no KaTeX errors and no whole-page horizontal overflow. All 398 site regeneration checks passed. Numerical answers were cross-checked with the supplied instructor manual; its Exercise 1.32 transposed intermediate component is documented in the solution.
